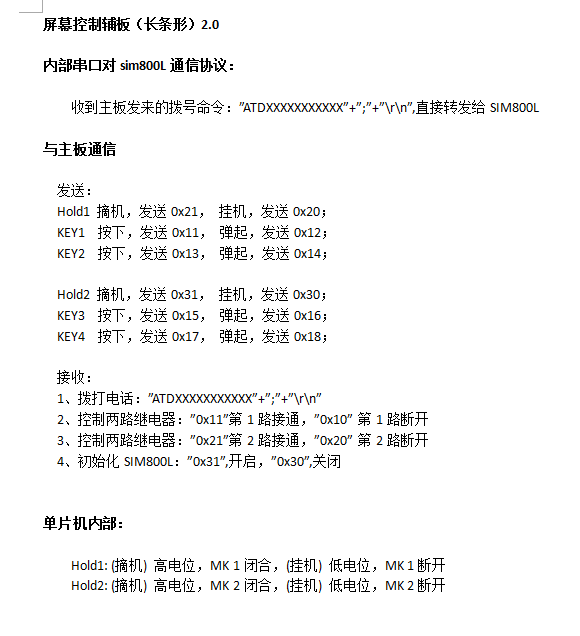
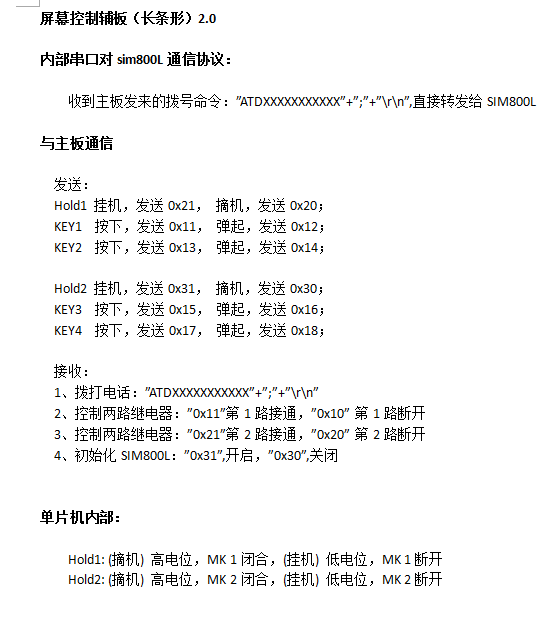
修改

diff --git a/app/src/main/java/cn/com/billboard/service/GPIOBigServiceNew.java b/app/src/main/java/cn/com/billboard/service/GPIOBigServiceNew.java
@@ -1,0 +1,200 @@
+package cn.com.billboard.service;
+
+import android.app.Service;
+import android.content.Intent;
+import android.os.IBinder;
+import android.support.annotation.Nullable;
+import android.text.TextUtils;
+import android.util.Log;
+
+import com.bjw.utils.FuncUtil;
+import com.bjw.utils.SerialHelper;
+
+import java.io.IOException;
+
+import cn.com.billboard.model.AlarmRecordModel;
+import cn.com.billboard.model.EventMessageModel;
+import cn.com.billboard.util.ChangeTool;
+import cn.com.billboard.util.SharedPreferencesUtil;
+import cn.com.library.event.BusProvider;
+
+//        Hold1 挂机，发送0x21， 摘机，发送0x20；
+//        KEY1  按下，发送0x11， 弹起，发送0x12；
+//        KEY2  按下，发送0x13， 弹起，发送0x14；
+//
+//        Hold2 挂机，发送0x31， 摘机，发送0x30；
+//        KEY3  按下，发送0x15， 弹起，发送0x16；
+//        KEY4  按下，发送0x17， 弹起，发送0x18；
+
+public class GPIOBigServiceNew extends Service {
+
+    private static GPIOBigServiceNew service;
+
+    public static GPIOBigServiceNew getInstance() {
+        if (service == null) {
+            synchronized (GPIOBigServiceNew.class) {
+                if (service == null) {
+                    service = new GPIOBigServiceNew();
+                }
+            }
+        }
+        return service;
+    }
+
+    private SerialHelper serialHelper;
+    String tell;
+    String tel2;
+    String tel3;
+    String tel4;
+    private boolean isCalling = false;
+    @Override
+    public void onCreate() {
+        super.onCreate();
+        service = this;
+        init();
+    }
+
+    private void init() {
+        serialHelper = new SerialHelper() {
+            @Override
+            protected void onDataReceived(final com.bjw.bean.ComBean comBean) {
+                String back = FuncUtil.ByteArrToHex(comBean.bRec);
+                Log.i("xxx",back);
+
+                if(back.equals("21")){
+                    stopCall();
+                }else if (back.equals("11")){
+                    telephone1();
+                }else if(back.equals("13")){
+                    telephone2();
+                }
+
+                if(back.equals("31")){
+                    stopCall();
+                }else if (back.equals("15")){
+                    telephone3();
+                }else if(back.equals("17")){
+                    telephone4();
+                }
+
+                String back_phone = ChangeTool.decodeHexStr(back);
+                Log.i("xxx",back_phone);
+                if(back_phone.contains("NO CARRIER")||back_phone.contains("ERROR")||back_phone.contains("NO DIALTONE")){
+                    isCalling =false;
+                }else if(back_phone.contains("RING")){//不予许接外来电话
+                    sendTest("ATH\r\n");
+                }
+            }
+        };
+        serialHelper.setPort("/dev/ttyS3");
+        serialHelper.setBaudRate(9600);
+        try {
+            serialHelper.close();
+            serialHelper.open();
+        } catch (IOException e) {
+            e.printStackTrace();
+        }
+    }
+
+    private void telephone1() {
+        if(isCalling){
+            return;
+        }
+        tell =  SharedPreferencesUtil.getString(this,"tell","");
+        Log.i("sss","tel1  "+tell);
+        if(TextUtils.isEmpty(tell)){
+            BusProvider.getBus().post(new EventMessageModel("没有报警电话"));
+        }else {
+            isCalling = true;
+            sendTest("ATD"+tell+";\r\n");
+            BusProvider.getBus().post(new AlarmRecordModel(true, 1));
+        }
+    }
+
+    private void telephone2() {
+        if(isCalling){
+            return;
+        }
+        tel2 =  SharedPreferencesUtil.getString(this,"tel2","");
+        Log.i("sss","tel2  "+tel2);
+        if(TextUtils.isEmpty(tel2)){
+            BusProvider.getBus().post(new EventMessageModel("没有报警电话"));
+        }else {
+            isCalling = true;
+            sendTest("ATD"+tel2+";\r\n");
+            BusProvider.getBus().post(new AlarmRecordModel(true, 2));
+        }
+    }
+
+    private void telephone3() {
+        if(isCalling){
+            return;
+        }
+        tel3 =  SharedPreferencesUtil.getString(this,"tel3","");
+        Log.i("sss","tel3  "+tel3);
+        if(TextUtils.isEmpty(tel3)){
+            BusProvider.getBus().post(new EventMessageModel("没有报警电话"));
+        }else {
+            isCalling = true;
+            sendTest("ATD"+tel3+";\r\n");
+            BusProvider.getBus().post(new AlarmRecordModel(true, 3));
+        }
+    }
+
+    private void telephone4() {
+        if(isCalling){
+            return;
+        }
+        tel4 =  SharedPreferencesUtil.getString(this,"tel4","");
+        Log.i("sss","tel4  "+tel4);
+        if(TextUtils.isEmpty(tel4)){
+            BusProvider.getBus().post(new EventMessageModel("没有报警电话"));
+        }else {
+            isCalling = true;
+            sendTest("ATD"+tel4+";\r\n");
+            BusProvider.getBus().post(new AlarmRecordModel(true, 4));
+        }
+    }
+
+    /**
+     * 停止打电话
+     */
+    private void stopCall() {
+        sendTest("ATH\r\n"); //挂断电话
+        isCalling = false;
+        BusProvider.getBus().post(new AlarmRecordModel(false, 0));
+    }
+
+    @Nullable
+    @Override
+    public IBinder onBind(Intent intent) {
+        return null;
+    }
+
+    //发送Test
+    public void sendTest(String text){
+        if(serialHelper.isOpen()){
+            serialHelper.sendTxt(text);
+        }else {
+            Log.i("sss","串口都没打开！");
+        }
+    }
+
+    //发送Hex
+    public void sendHex(String text){
+        if(serialHelper.isOpen()){
+            serialHelper.sendHex(text);
+        }else {
+            Log.i("sss","串口都没打开！");
+        }
+    }
+
+    @Override
+    public void onDestroy() {
+        super.onDestroy();
+        if(serialHelper.isOpen()){
+            serialHelper.close();
+        }
+    }
+
+}

diff --git a/app/src/main/java/cn/com/billboard/ui/FragmentBigScreenActivity.java b/app/src/main/java/cn/com/billboard/ui/FragmentBigScreenActivity.java
@@ -24,6 +24,7 @@ import cn.com.billboard.model.EventMessageModel;
 import cn.com.billboard.present.FragmentBigScreenActivityPresent;
 import cn.com.billboard.service.GPIOBigService;
 import cn.com.billboard.service.GPIOBigService2;
+import cn.com.billboard.service.GPIOBigServiceNew;
 import cn.com.billboard.ui.fragment.FragmentBigScreenPic;
 import cn.com.billboard.ui.fragment.FragmentBigScreenVideo;
 import cn.com.billboard.ui.fragment.FragmentUpdate;
@@ -62,8 +63,9 @@ public class FragmentBigScreenActivity extends XActivity<FragmentBigScreenActivi
         smdt.smdtWatchDogEnable((char) 1);//开启看门狗
         new Timer().schedule(timerTask, 0, 5000);
         heartinterval();
-        startService(new Intent(context, GPIOBigService.class));//两个电话四个按键
+//        startService(new Intent(context, GPIOBigService.class));//两个电话四个按键
       //  startService(new Intent(context, GPIOBigService2.class));//一个电话四个按键
+          startService(new Intent(context, GPIOBigServiceNew.class));//采用了新的接线板子
         getBus();
         instance = this;
     }
@@ -119,29 +121,10 @@ public class FragmentBigScreenActivity extends XActivity<FragmentBigScreenActivi
                 });
     }
 
-    /**
-     * 动态添加fragment，不会重复创建fragment
-     *
-     * @param to 将要加载的fragment
-     */
     public void switchContent(Fragment to) {
-        try {
-            if (mCurrentFrag != to) {
-                if (!to.isAdded()) {// 如果to fragment没有被add则增加一个fragment
-                    if (mCurrentFrag != null) {
-                        fm.beginTransaction().hide(mCurrentFrag).commit();
-                    }
-                    fm.beginTransaction()
-                            .add(R.id.fl_content, to)
-                            .commit();
-                } else {
-                    fm.beginTransaction().hide(mCurrentFrag).show(to).commitAllowingStateLoss(); // 隐藏当前的fragment，显示下一个
-                }
-                mCurrentFrag = to;
-            }
-        } catch (Exception e) {
-            e.printStackTrace();
-        }
+        getSupportFragmentManager().beginTransaction()
+                .replace(R.id.fl_content, to)
+                .commit();
     }
 
     public void toFragmentUpdate() {
@@ -172,6 +155,7 @@ public class FragmentBigScreenActivity extends XActivity<FragmentBigScreenActivi
         smdt.smdtWatchDogEnable((char) 0);
       //  stopService(new Intent(context, GPIOBigService.class));
       //  stopService(new Intent(context, GPIOBigService2.class));
+        stopService(new Intent(context, GPIOBigServiceNew.class));
         if (mDisposable != null) {
             mDisposable.dispose();
         }

diff --git a/app/src/main/java/cn/com/billboard/ui/fragment/FragmentBigScreenVideo.java b/app/src/main/java/cn/com/billboard/ui/fragment/FragmentBigScreenVideo.java
@@ -43,19 +43,6 @@ public class FragmentBigScreenVideo extends BaseFragment {
         }
     }
 
-    /**
-     * 当 Fragment 调用 hide() 、 show() 时回调
-     * @param hidden
-     */
-    @Override
-    public void onHiddenChanged(boolean hidden) {
-        if(!hidden){
-            videoIndex = 0;
-            playVideo();
-        }
-        super.onHiddenChanged(hidden);
-    }
-
     /**播放视频*/
     private void playVideo(){
         video.setOnPreparedListener(mp -> {
@@ -67,6 +54,7 @@ public class FragmentBigScreenVideo extends BaseFragment {
                 //继续播放视频
                 playVideo();
             } else {
+                    videoIndex = 0;
                     if(images.size()>0){
                         FragmentBigScreenActivity.instance().toFragmentImg();
                     }else {
@@ -75,14 +63,16 @@ public class FragmentBigScreenVideo extends BaseFragment {
             }
         });
         video.setOnErrorListener((mp, what, extra) -> {
-            video.stopPlayback();
+            FragmentBigScreenActivity.instance().toFragmentImg();
             return true;
         });
         video.setVideoPath(videos.get(videoIndex));
         video.start();
     }
-    public void playVideoAgain(){
-        video.setVideoPath(videos.get(videoIndex));
-        video.start();
+
+    @Override
+    public void onPause() {
+        super.onPause();
+        video.stopPlayback();
     }
 }

diff --git a/app/src/main/java/cn/com/billboard/ui/fragment/FragmentBigScreenPic.java b/app/src/main/java/cn/com/billboard/ui/fragment/FragmentBigScreenPic.java
@@ -37,9 +37,13 @@ public class FragmentBigScreenPic extends BaseFragment {
     protected void init() {
         images_big = FileUtil.getFilePath(UserInfoKey.PIC_BIG_IMAGE_DOWN);
         videos = FileUtil.getFilePath(UserInfoKey.BIG_VIDEO);
-        playBanner();
     }
 
+    @Override
+    public void onResume() {
+        super.onResume();
+        playBanner();
+    }
 
     /**
      * 播放图片轮播
@@ -76,22 +80,6 @@ public class FragmentBigScreenPic extends BaseFragment {
         }
     }
 
-    @Override
-    public void onHiddenChanged(boolean hidden) {
-        if (!hidden) {
-            banner.startScroll();
-            images_big = FileUtil.getFilePath(UserInfoKey.PIC_BIG_IMAGE_DOWN);
-            if (images_big.size() == 1) {
-                if(videos.size()>0){
-                    mHandler.postDelayed(() -> backplay(), 2000);
-                }
-            }
-        } else {
-            banner.stopScroll();
-        }
-        super.onHiddenChanged(hidden);
-    }
-
     /**
      * 重复播放小图片和视频
      */
@@ -110,5 +98,11 @@ public class FragmentBigScreenPic extends BaseFragment {
             bannerView.add(guidView);
         }
         return bannerView;
+    }
+
+    @Override
+    public void onPause() {
+        super.onPause();
+        banner.stopScroll();
     }
 }

diff --git a/app/src/main/java/cn/com/billboard/present/LauncherPresent.java b/app/src/main/java/cn/com/billboard/present/LauncherPresent.java
@@ -10,8 +10,8 @@ public class LauncherPresent extends XPresent<LauncherActivity> {
 
     public void toActivity(){
 //        TwoScreenActivity.launch(getV());
-      FragmentActivity.launch(getV());
-     //  FragmentBigScreenActivity.launch(getV());
+    //  FragmentActivity.launch(getV());
+       FragmentBigScreenActivity.launch(getV());
         getV().finish();
     }
 
